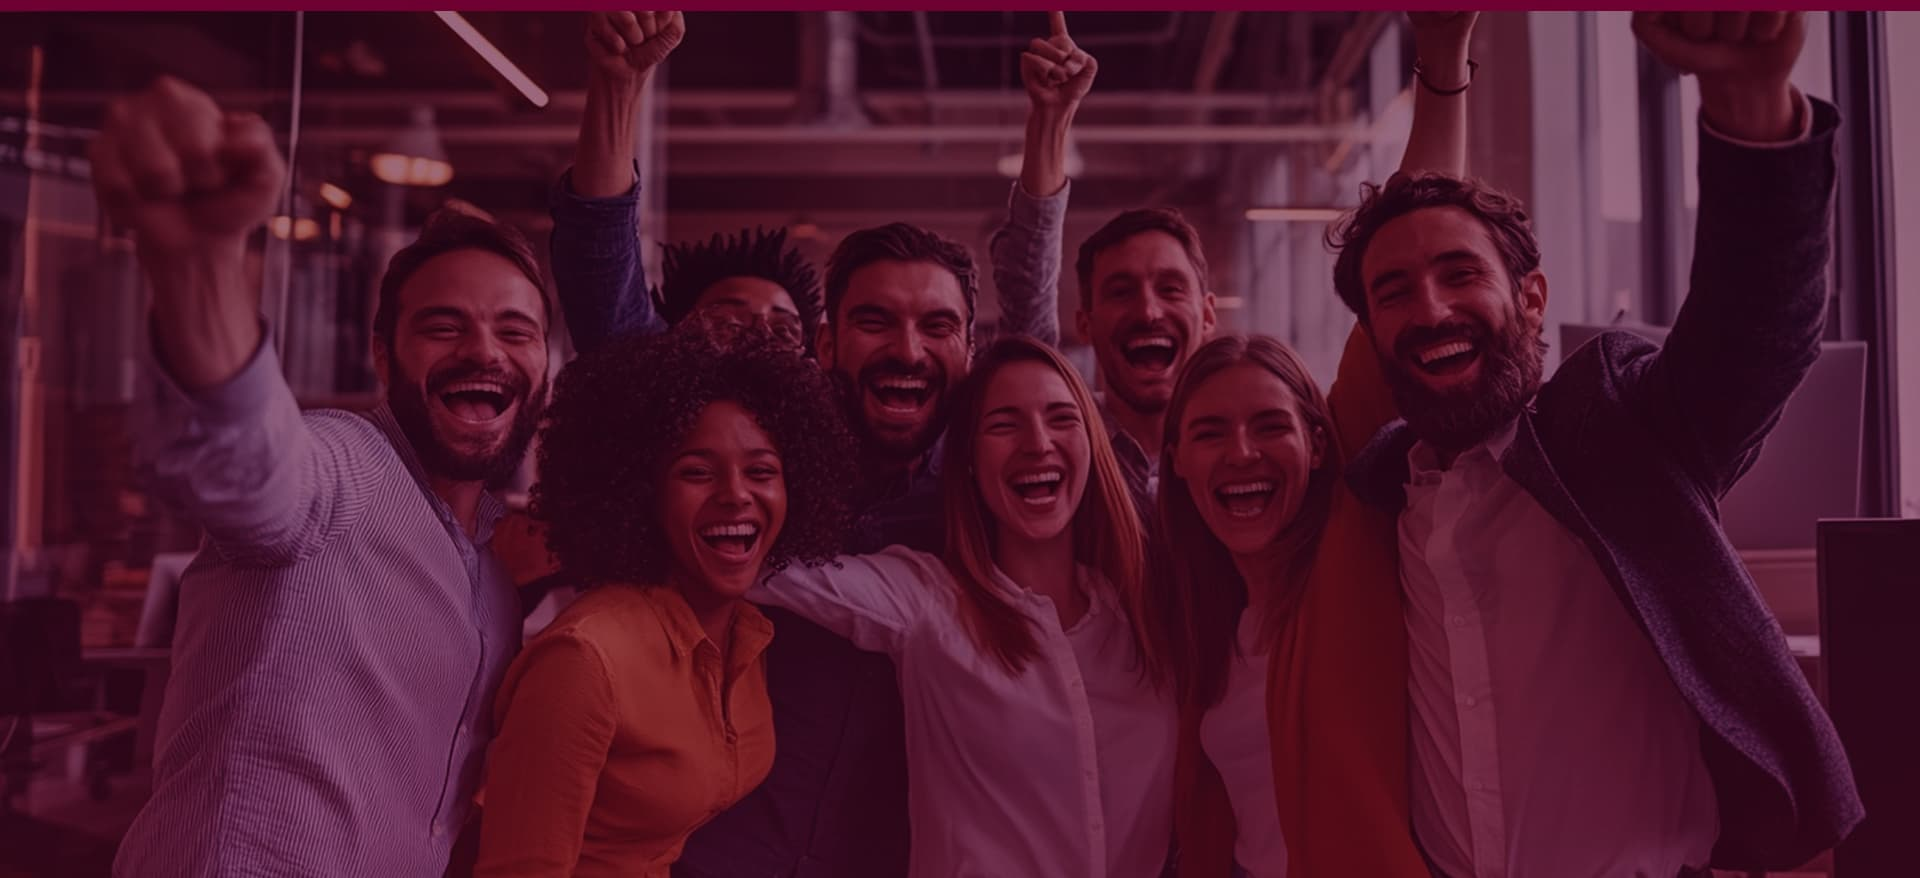
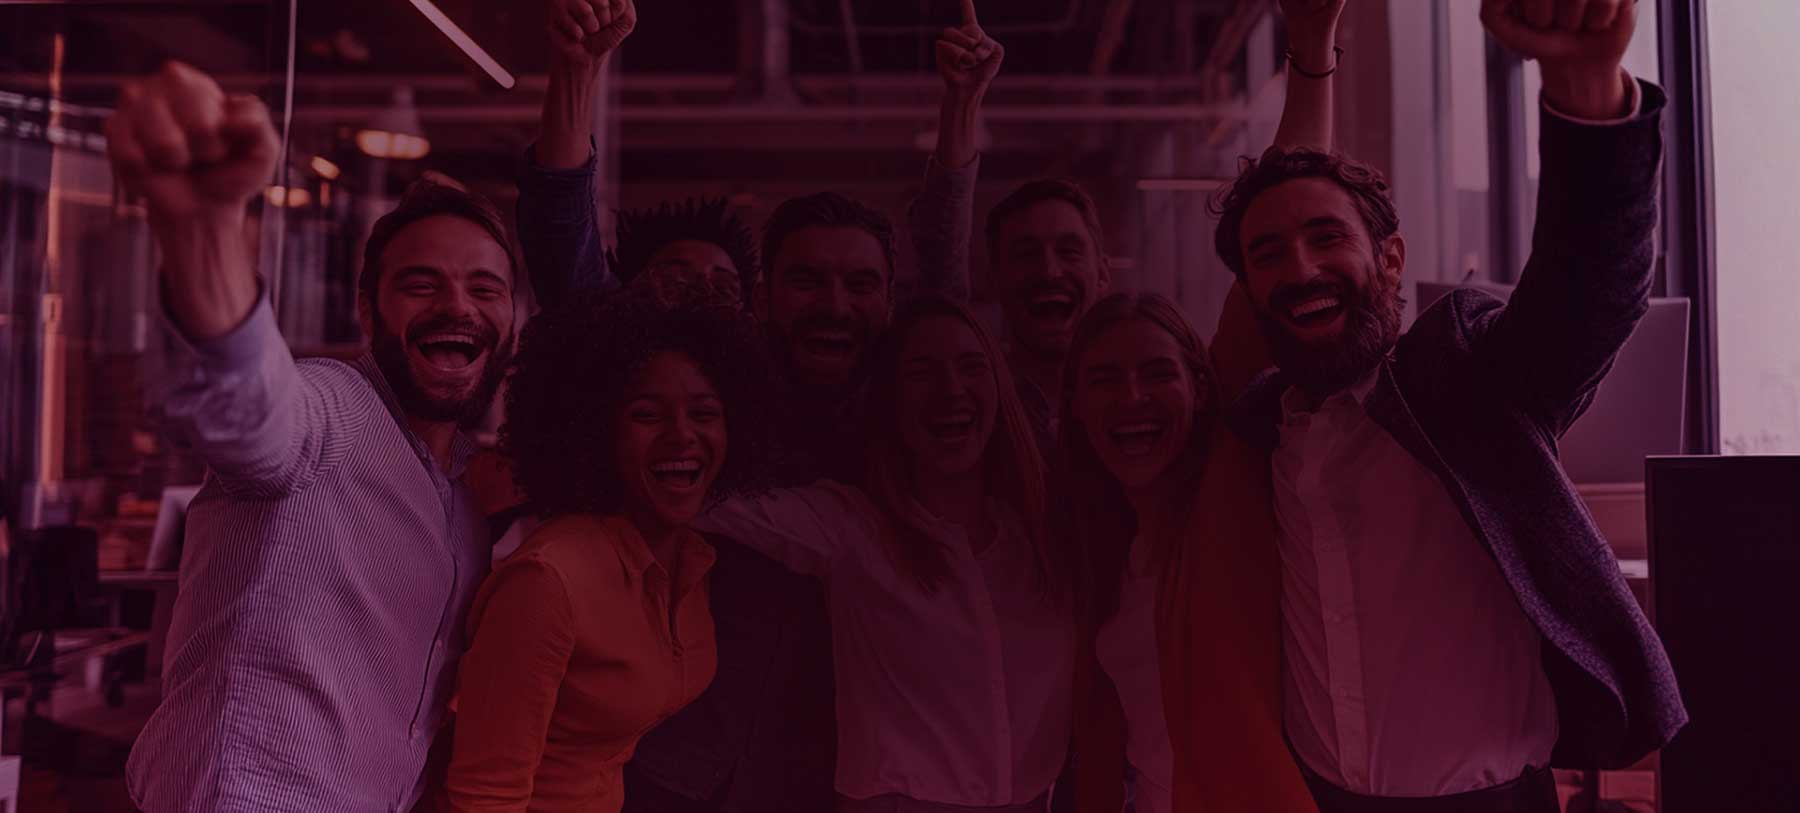
home slider update

diff --git a/src/components/pages/website/home/BannerSlider.jsx b/src/components/pages/website/home/BannerSlider.jsx
@@ -106,8 +106,12 @@ const BannerSlider = () => {
           <div className="customContainer">
             <div className="wrapper flex place-items-center min-h-[90vh] md:h-[90vh] transition-all w-full">
               <div className="mx-auto w-full md:w-[865px] text-center">
-                <h1 className="text-light leading-[1.2] md:leading-[1.2] text-center text-[clamp(30px,7vw,56px)] font-bold w-full mb-10 md:mb-10  lg:text-[55px]">
-                  Your Trusted Christian Partner in Managed Services
+                <p className="text-light lg:text-[28px] italic">
+                  In business for good.
+                </p>
+                <h1 className="text-light leading-[1.2] md:leading-[1.2] text-center text-[clamp(30px,7vw,56px)] font-bold w-full mb-10 md:mb-10  lg:text-[55px] drop-shadow-2xl">
+                  Your Trusted Christian Partner in{" "}
+                  <span className="bg-sky-500/50">Managed Services</span>
                 </h1>
                 <p className="text-light text-center mb-10">
                   We deliver end-to-end solutions and professional expertise in
@@ -132,23 +136,24 @@ const BannerSlider = () => {
           className={`banner bg-cover bg-center`}
           style={{
             // backgroundImage: `url(${devBaseImgUrl}/home-bg-new.jpg)`,
-            backgroundImage: `url(../../public/img/home-bg-new.jpg)`,
+            backgroundImage: `url(../../public/img/home-bg-webapp.jpg)`,
           }}
         >
           <div className="customContainer">
             <div className="wrapper flex place-items-center h-[90vh] md:h-[90vh] transition-all w-full">
               <div className="mx-auto w-full md:w-[865px] text-center">
-                <h1 className="text-light leading-[1.2] md:leading-[1.2] text-center text-[clamp(30px,7vw,56px)] font-bold w-full mb-10 md:mb-10  lg:text-[55px]">
-                  Your Trusted Christian Partner in Managed Services
+                <p className="text-light lg:text-[28px] italic">
+                  Custom Solutions, Lasting Growth
+                </p>
+                <h1 className="text-light leading-[1.2] md:leading-[1.2] text-center text-[clamp(30px,7vw,56px)] font-bold w-full mb-10 md:mb-10  lg:text-[55px]  ">
+                  Empower your business with Custom Web Applications
                 </h1>
                 <p className="text-light text-center mb-10">
-                  We deliver end-to-end solutions and professional expertise in
-                  web applications, websites, virtual assistants, and skills
-                  development. Rooted in Christian values, we are committed to
-                  integrity and excellence in helping you elevate your digital
-                  presence, streamline operations, and build a more skilled
-                  workforce. Our comprehensive services are designed to drive
-                  your success with a mission to serve with purpose and care.
+                  We provide custom web application development services
+                  tailored to meet your business needs, combining robust
+                  functionality with user-friendly design. Our solutions aim to
+                  improve business efficiency and automate processes, helping
+                  you achieve your goals with modern, scalable technology.
                 </p>
                 <a href="#" className="btn bg-transparent text-light border-2">
                   Get Started
@@ -164,23 +169,93 @@ const BannerSlider = () => {
           className={`banner bg-cover bg-center`}
           style={{
             // backgroundImage: `url(${devBaseImgUrl}/home-bg-new.jpg)`,
-            backgroundImage: `url(../../public/img/home-bg-new.jpg)`,
+            backgroundImage: `url(../../public/img/home-bg-website.jpg)`,
           }}
         >
           <div className="customContainer">
             <div className="wrapper flex place-items-center h-[90vh] md:h-[90vh] transition-all w-full">
               <div className="mx-auto w-full md:w-[865px] text-center">
+                <p className="text-light lg:text-[28px] italic">
+                  Digital Design, Meaningful Engagement
+                </p>
                 <h1 className="text-light leading-[1.2] md:leading-[1.2] text-center text-[clamp(30px,7vw,56px)] font-bold w-full mb-10 md:mb-10  lg:text-[55px]">
-                  Your Trusted Christian Partner in Managed Services
+                  Elevate your digital presence with responsive, user-friendly
+                  Websites
                 </h1>
                 <p className="text-light text-center mb-10">
-                  We deliver end-to-end solutions and professional expertise in
-                  web applications, websites, virtual assistants, and skills
-                  development. Rooted in Christian values, we are committed to
-                  integrity and excellence in helping you elevate your digital
-                  presence, streamline operations, and build a more skilled
-                  workforce. Our comprehensive services are designed to drive
-                  your success with a mission to serve with purpose and care.
+                  Our website services include design, development, and
+                  maintenance to ensure your digital presence is impactful and
+                  aligned with your brand. We create responsive, visually
+                  appealing, and SEO-friendly websites that enhance user
+                  experience and drive customer engagement.
+                </p>
+                <a href="#" className="btn bg-transparent text-light border-2">
+                  Get Started
+                </a>
+              </div>
+            </div>
+          </div>
+        </section>
+      </div>
+      <div>
+        <section
+          id="banner"
+          className={`banner bg-cover bg-center`}
+          style={{
+            // backgroundImage: `url(${devBaseImgUrl}/home-bg-new.jpg)`,
+            backgroundImage: `url(../../public/img/home-bg-va.jpg)`,
+          }}
+        >
+          <div className="customContainer">
+            <div className="wrapper flex place-items-center h-[90vh] md:h-[90vh] transition-all w-full">
+              <div className="mx-auto w-full md:w-[865px] text-center">
+                <p className="text-light lg:text-[28px] italic">
+                  Virtual Support, Real Results
+                </p>
+                <h1 className="text-light leading-[1.2] md:leading-[1.2] text-center text-[clamp(30px,7vw,56px)] font-bold w-full mb-10 md:mb-10  lg:text-[55px]">
+                  Streamline your operations with skilled Virtual Assistants.
+                </h1>
+                <p className="text-light text-center mb-10">
+                  Our skilled virtual assistants offer comprehensive support to
+                  help you manage tasks and optimize daily operations. From
+                  administrative duties to customer service, we provide reliable
+                  and efficient assistance, allowing you to focus on growing
+                  your business.
+                </p>
+                <a href="#" className="btn bg-transparent text-light border-2">
+                  Get Started
+                </a>
+              </div>
+            </div>
+          </div>
+        </section>
+      </div>
+
+      <div>
+        <section
+          id="banner"
+          className={`banner bg-cover bg-center`}
+          style={{
+            // backgroundImage: `url(${devBaseImgUrl}/home-bg-new.jpg)`,
+            backgroundImage: `url(../../public/img/home-bg-lcs.jpg)`,
+          }}
+        >
+          <div className="customContainer">
+            <div className="wrapper flex place-items-center h-[90vh] md:h-[90vh] transition-all w-full">
+              <div className="mx-auto w-full md:w-[865px] text-center">
+                <p className="text-light lg:text-[28px] italic">
+                  Work-Related Training, Career Success
+                </p>
+                <h1 className="text-light leading-[1.2] md:leading-[1.2] text-center text-[clamp(30px,7vw,56px)] font-bold w-full mb-10 md:mb-10  lg:text-[55px]">
+                  Hands-on training with actual industry experience.
+                </h1>
+                <p className="text-light text-center mb-10">
+                  We offer structured skills development programs that equip
+                  individuals with the technical and soft skills needed in
+                  today’s workforce. Our On-the-job training and work immersion
+                  program covers web development, IT, and accounting, bridging
+                  the gap between education and employment, and empowering
+                  participants for career success.
                 </p>
                 <a href="#" className="btn bg-transparent text-light border-2">
                   Get Started
